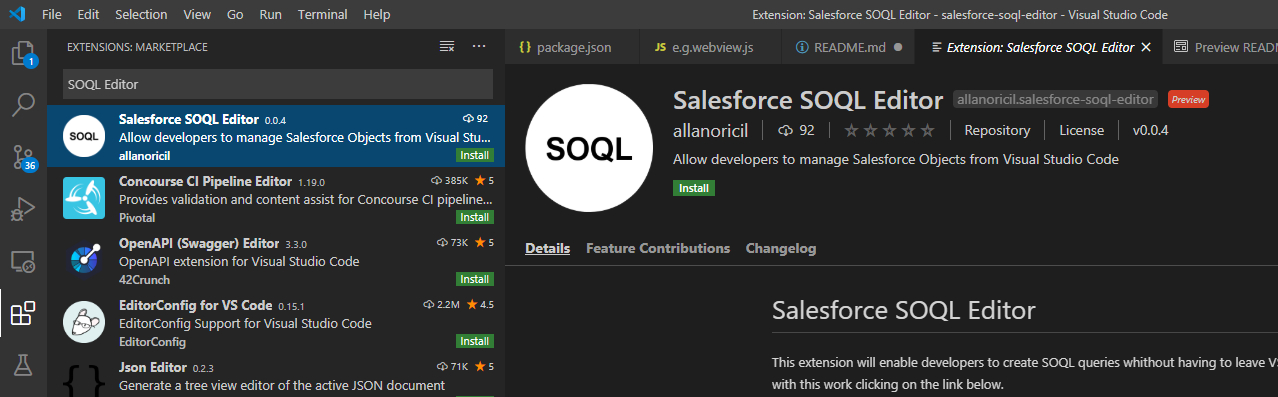
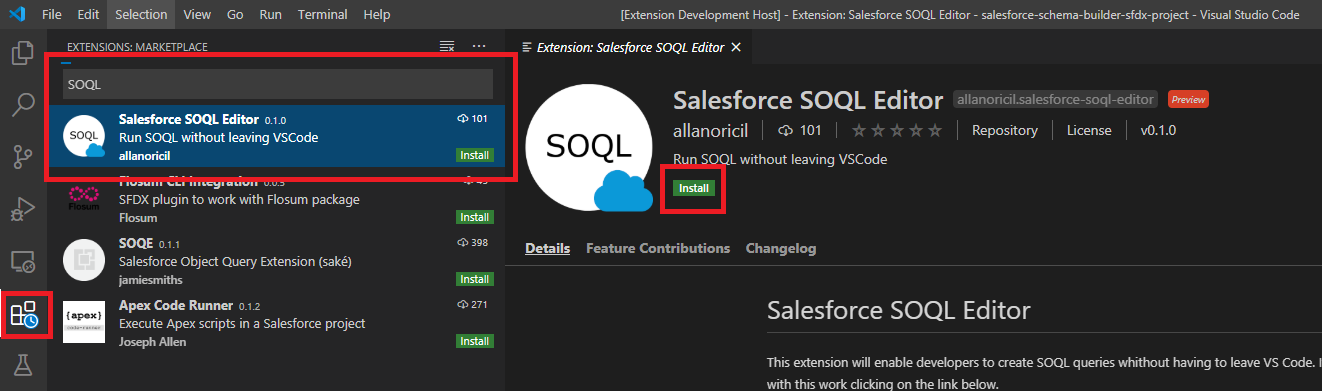
Update README

diff --git a/README.md b/README.md
@@ -1,29 +1,83 @@
 # Salesforce SOQL Editor
 
-This extension will enable developers to create SOQL queries whithout having to leave VS Code. It is being developed. In the mean time you can help me with this work clicking on the link below.
+This extension enable developers to create, run and add to Apex SOQL queries whithout having to leave the IDE. If you want to contribute, please consider clicking on the button below. Thanks.
 
 <a href="https://www.buymeacoffee.com/allanoricil" target="_blank"><img src="https://cdn.buymeacoffee.com/buttons/default-orange.png" alt="Buy Me A Coffee" style="height: 51px !important;width: 217px !important;" ></a>
+
+## Features
+
+- [x] Create SOQL Queries
+- [x] Run SOQL Queries.
+- [x] Add SOQL Queries to Apex.
+
+## Requirements
+
+- sfdx-cli 7.58.2 or above
+- VS Code 1.32.0 or above
+- MUST BE USED FROM A SFDX PROJECT
 
 # Instalation
 
 Open VS Code, click on the Extension button in the side bar menu, search for `Salesforce SOQL Editor` and click `Install`.
 
-<img src="https://drive.google.com/uc?id=18AxpHzeGz9_dUEdVC1GEerkRLnW2ZDMv" width="800px"></img>
+<img src="https://drive.google.com/uc?id=1Rvs9f6quK06iQnIo5fqr7iiQfJXbQQkB" width="800px"></img>
 
 Then wait for the Activation Message to appear.
 
-<img src="https://drive.google.com/uc?id=1SdsySV3__XbDMdWFxZX4khTNlcfs_l-m" width="600px"></img>
+<img src="https://drive.google.com/uc?id=1Hdr8xEuQ6ct_g37SLG29fFGk6G-BBExK" width="600px"></img>
 
-# How to Deploy a new Custom Object
+# How to use the SOQL Editor
 
-### Configure a Default Username
+## Configure a Default Username
 
-Configure a Default Username in the SFDX using the Global flag. The UI will this user to save your Custom Object.
+Configure a Default Username in the SFDX using the Global flag. The UI will this user to query the data.
 
 ```
 sfdx force:config:set defaultusername=me@myhub.org -g
 ```
 
-## SOQL Editor
+## Open the SOQL Editor
+
+There are three ways to open the SOQL Editor.
+
+### File Explorer Context
+
+In the file explorer click with the right button on any Apex class to see the option `SFDX: SOQL Editor` in the Menu.
+
+<img src="https://drive.google.com/uc?id=1hPfBf8Rzap7K9dQf8I92Kf_43yHIeU9A"></img>
+
+### Editor Context
+
+Open an Apex class and click with the right button anywhere in the editor context to see the option `SFDX: SOQL Editor` in the Menu.
+
+<img src="https://drive.google.com/uc?id=16WGijV7hT6dcz99xIDtYe3NsJnxP4nR9"></img>
+
+### Editor Navigation Context
+
+Open an Apex class and click on the button shown in the image below. This button only appears when editing Apex classes.
+
+<img src="https://drive.google.com/uc?id=1ufLB1_TdaZDku6sSU-OdKHehX-CeHSi3"></img>
+
+## Run a SOQL query
+
+Wait a few seconds after the editor is opened to see the available SObjects.
+Once the data is loaded, choose an SObject and wait until the available fields are displayed right below the object name.
+To select multiple fields press `CTRL` and click on a new field.
+To add multiple `WHERE` conditions, click on the `+` button to add a new Filter entry.
+To `ORDER BY` your results use the three Order by fields that are to the right of the Object selection.
+To `LIMIT` your results use the Max Records field.
+You can also write your query in the Query Editor and run it without using any of the input fields.
 
 <img src="https://drive.google.com/uc?id=1YxuqmhsiTDoEDFJm5lNmQqRk1YZ9Os_j" width="1200px"></img>
+
+## Add your SOQL query to Apex
+
+- Open an Apex Class
+
+- Open the SOQL editor
+
+- Create your query
+
+- Click anywhere in the Apex class to set the place where you want to place the query.
+
+- In the SOQL editor click on the button `Add to Apex`. The query will appear on the apex class, at the position you clicked before.
